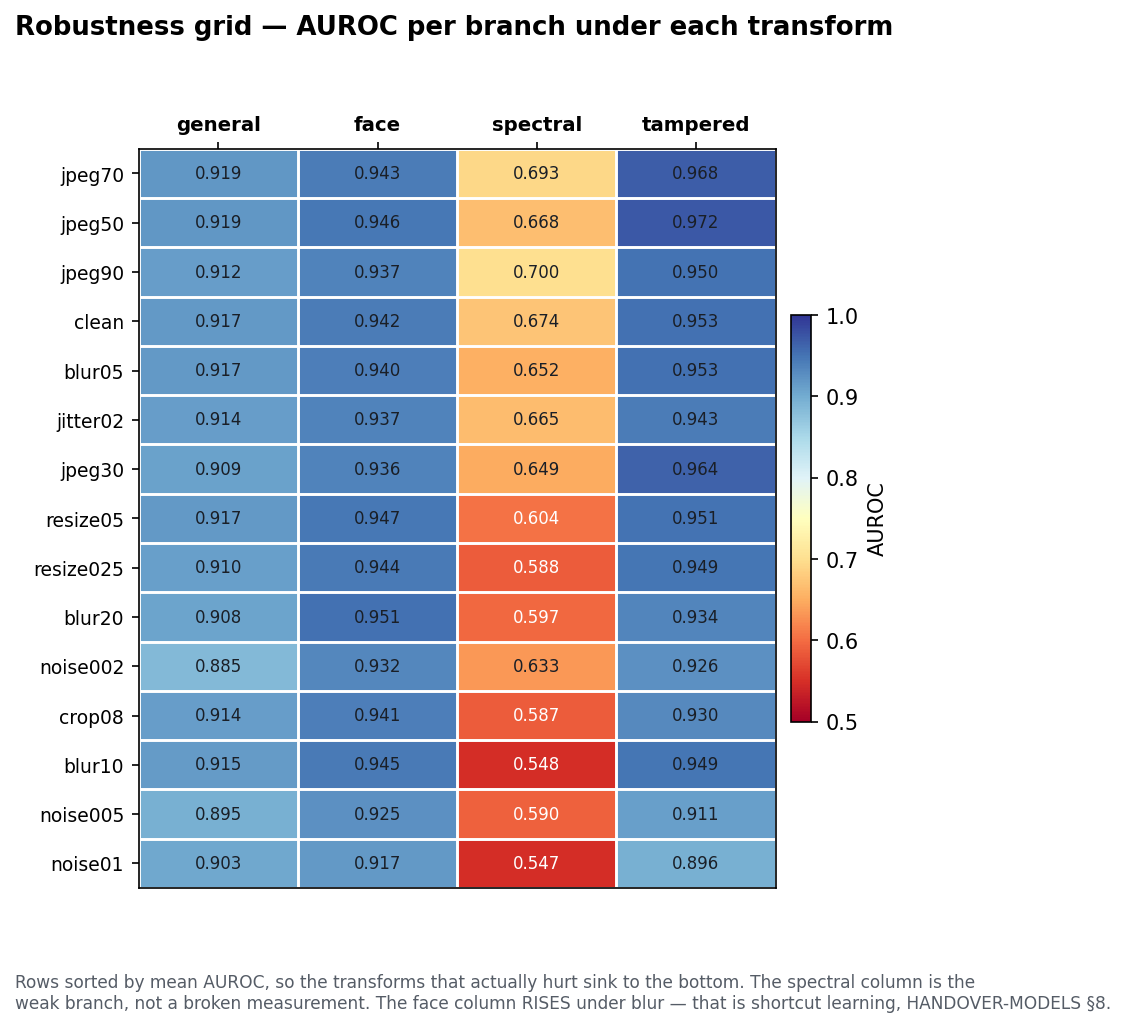
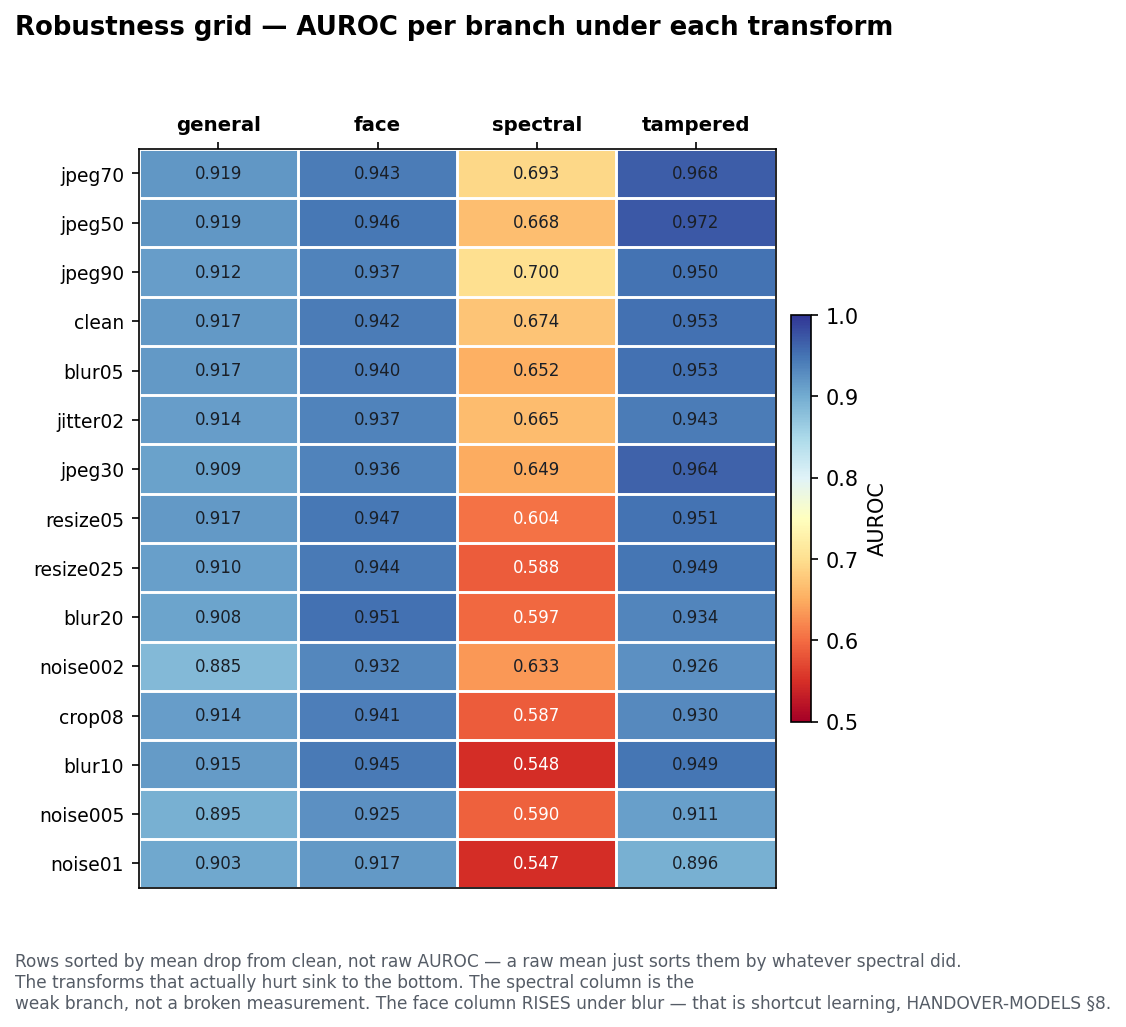
feat: benchmarks figure, per-source eval output, computed captions
eval_grid.py wrote every source to docs/robustness.md, so
`--source organizer_val` silently overwrote the So-Fake-OOD submission
deliverable. Output path is now per-source. It also embedded the
So-Fake-OOD figures under every source captioned "same numbers as a
heatmap" -- false for organizer_val, which now links benchmarks.png
instead. The blur caveat prints only where the face row actually rises
under blur (it falls on organizer_val: 0.9520 -> 0.8887).

make_figures.py promised in its docstring that nothing is pasted, then
pasted every caption number. separation.png claimed 34.6% of COCO was
flagged at the old 0.5 default; the measured value is 25.5%. All caption
figures are now computed at render time. robustness.png's caption
described a sort the code does not do.

New benchmarks.png: the organizer set against the headline, general probe
vs the shipped max, clean -> worst. Dumbbell rather than bars because the
axis has to be truncated to show a 0.03 gap and a truncated bar chart lies
about ratios. Verified equal to predict.score_embeddings() to 4dp --
eval_grid's combiner table maxes the PLATT-CALIBRATED branches and reads
0.9114/0.8771 on so_fake_ood, which is a different model.

Claude-Session: https://claude.ai/code/session_01RdWZMcCyUsfKW31mFesLPU

Changed region(s): [[0.0, 0.9348, 0.8703, 0.9659]]

diff --git a/scripts/make_figures.py b/scripts/make_figures.py
@@ -1,15 +1,16 @@
 """Regenerate docs/figures from cache. Everything here is computed, never drawn
 from a pasted number, so a figure cannot outlive the result it illustrates.
 
-    python scripts/make_figures.py            # all four
+    python scripts/make_figures.py            # all five
     python scripts/make_figures.py threshold  # just one
 
-Four figures, one argument each:
+Five figures, one argument each:
 
   threshold.png     0.5 was never chosen, and it is the wrong place to cut
   separation.png    why -- the real-image score mass sits on top of the old cut
   robustness.png    the 15-variant grid as a picture instead of a table
   generalisation.png  the tampered branch cannot recognise unfamiliar REAL photos
+  benchmarks.png    organizer set vs the headline, and what max() costs on it
 
 reliability.png is not built here -- it belongs to quorum/fusion.py, which owns
 calibration. Run `python -m quorum.fusion` for that one.
@@ -176,8 +177,8 @@ def fig_separation(D):
                  x=0.0, ha="left", y=1.0)
     fig.text(0.0, -0.03,
              "The real-image mass in both panels extends well past 0.5. Everything between the two "
-             "dashed lines was a false\naccusation at the old default — 34.6% of the COCO panel, "
-             "reduced to 8.6% at 0.766.",
+             f"dashed lines was a false\naccusation at the old default — {(pc >= OLD_THR).mean():.1%} of the COCO panel, "
+             f"reduced to {(pc >= NEW_THR).mean():.1%} at {NEW_THR}.",
              fontsize=8.2, color="#555C66", ha="left")
     save(fig, "separation.png")
 
@@ -213,7 +214,8 @@ def fig_robustness():
     fig.suptitle("Robustness grid — AUROC per branch under each transform",
                  fontsize=12.5, fontweight="bold", x=0.0, ha="left", y=1.02)
     fig.text(0.0, -0.015,
-             "Rows sorted by mean AUROC, so the transforms that actually hurt sink to the bottom. "
+             "Rows sorted by mean drop from clean, not raw AUROC — a raw mean just sorts them by "
+             "whatever spectral did.\nThe transforms that actually hurt sink to the bottom. "
              "The spectral column is the\nweak branch, not a broken measurement. The face column "
              "RISES under blur — that is shortcut learning, HANDOVER-MODELS §8.",
              fontsize=8.2, color="#555C66", ha="left")
@@ -252,11 +254,14 @@ def fig_generalisation(D):
     axes[1].set_ylabel("P(AI) on real photographs"); axes[1].set_ylim(0, 1)
     style(axes[1], "Score distribution on the same three sets")
 
-    fig.suptitle("On unfamiliar photography the tampered branch flags 10x more real images",
+    ratio = ((D["reals"]["coco"]["tampered"] >= .5).mean()
+             / max((D["reals"]["coco"]["general"] >= .5).mean(), 1e-9))
+    fig.suptitle(f"On unfamiliar photography the tampered branch flags {ratio:.0f}x more real images",
                  fontsize=12.5, fontweight="bold", x=0.0, ha="left", y=1.02)
     fig.text(0.0, -0.22,
              "Both probes train only on SID_Set reals. On COCO — ordinary photography neither has "
-             "seen — general holds at 2.4% while\ntampered fires on 24.2%. The middle pair is not "
+             f"seen — general holds at {(D['reals']['coco']['general'] >= .5).mean():.1%} while\n"
+             f"tampered fires on {(D['reals']['coco']['tampered'] >= .5).mean():.1%}. The middle pair is not "
              "the same story: So-Fake-OOD's reals are web-sourced and already processed,\nso both "
              "probes struggle and general struggles most. That set is harder, not more unseen.\n"
              "Because the shipped scorer is max(), it inherits whichever branch is worse on a "
@@ -266,15 +271,79 @@ def fig_generalisation(D):
     save(fig, "generalisation.png")
 
 
+def fig_benchmarks():
+    """Both eval sets, general alone vs the shipped max, clean and worst.
+
+    A dumbbell rather than bars on purpose: the interesting gaps are ~0.03 wide,
+    so the axis has to be truncated to show them, and a truncated bar chart lies
+    about ratios. Dots carry no area, so the same truncation is honest.
+    """
+    import pandas as pd
+    from sklearn.metrics import roc_auc_score
+
+    rows = {}
+    for src, label in (("organizer_val", "Organizer set\nDALL\u00b7E 3 + COCO val2017"),
+                       ("so_fake_ood", "So-Fake-OOD\nunseen generator families")):
+        X, R = load(src)
+        if "calib_ood" in set(R.split):                     # never score the carve
+            m = (R.split != "calib_ood").values
+            X, R = X[m], R[m].reset_index(drop=True)
+        g, t = probe("general", X), probe("tampered", X)
+        for scorer, v in (("general alone", g),
+                          ("max(general, tampered)  \u2014 shipped", np.maximum(g, t))):
+            a = pd.Series({var: roc_auc_score(R.label[k], v[k])
+                           for var, k in ((var, (R.variant == var).values)
+                                          for var in R.variant.unique())
+                           if R.label[k].nunique() == 2})
+            rows[(label, scorer)] = (a["clean"], a.min(), a.idxmin())
+
+    fig, ax = plt.subplots(figsize=(9.6, 4.2))
+    ticks, y = [], 0
+    for (label, scorer), (clean, worst, where) in rows.items():
+        c = BLUE if scorer.startswith("general") else RED
+        ax.plot([worst, clean], [y, y], lw=2.4, c=c, alpha=.45, zorder=1,
+                solid_capstyle="round")
+        ax.scatter([worst], [y], s=64, c="white", edgecolors=c, lw=1.8, zorder=3)
+        ax.scatter([clean], [y], s=64, c=c, zorder=3)
+        ax.text(clean + .004, y, f"{clean:.4f}", va="center", fontsize=8.4,
+                fontweight="bold", color=c)
+        ax.text(worst - .004, y, f"{worst:.4f}  ({where})", va="center", ha="right",
+                fontsize=8.0, color=c)
+        ticks.append((y, f"{label}\n{scorer}"))
+        y -= 1
+
+    ax.set_yticks([t[0] for t in ticks], [t[1] for t in ticks], fontsize=8.2)
+    lo = min(w for _, w, _ in rows.values())
+    ax.set_xlim(lo - 0.055, 1.025)      # room for the left-hand labels
+    ax.set_ylim(y + .5, .7)
+    ax.set_xlabel("AUROC   \u2014   hollow dot = worst variant, solid = clean")
+    # Verified equal to predict.score_embeddings() to 4dp. eval_grid.py's
+    # combiner table maxes the PLATT-CALIBRATED branches instead and reads
+    # 0.9114/0.8771 on so_fake_ood -- a different model, not this one.
+    style(ax, "The organizer benchmark against the headline")
+    fig.text(0.0, -0.20,
+             "The organizer set is the only externally-comparable number we get, and it is the "
+             "easiest of the two: DALL\u00b7E 3 is\na softer target than So-Fake-OOD's generator "
+             "families, so 0.9170 stays the headline claim.\n"
+             "On the organizer set the shipped max() is WORSE than the general probe alone. It "
+             "contains no locally-edited\nimages, so the tampered branch can only add false "
+             "positives there. max() still wins on the pooled task\n(FULL avg 0.9113 vs 0.8849), "
+             "which is why it ships \u2014 but the trade is real and belongs in the write-up.",
+             fontsize=8.2, color="#555C66", ha="left")
+    save(fig, "benchmarks.png")
+
+
 FIGS = {"threshold": fig_threshold, "separation": fig_separation,
-        "robustness": fig_robustness, "generalisation": fig_generalisation}
+        "robustness": fig_robustness, "generalisation": fig_generalisation,
+        "benchmarks": fig_benchmarks}
 
 if __name__ == "__main__":
     want = [a for a in sys.argv[1:] if not a.startswith("-")] or list(FIGS)
     bad = [w for w in want if w not in FIGS]
     if bad:
         raise SystemExit(f"unknown figure(s) {bad}; choose from {list(FIGS)}")
-    D = populations() if any(w != "robustness" for w in want) else None
+    NO_DATA = {"robustness", "benchmarks"}
+    D = populations() if any(w not in NO_DATA for w in want) else None
     for w in want:
         print(f"{w}:")
-        FIGS[w]() if w == "robustness" else FIGS[w](D)
+        FIGS[w]() if w in NO_DATA else FIGS[w](D)

diff --git a/scripts/eval_grid.py b/scripts/eval_grid.py
@@ -169,15 +169,25 @@ def main(source, do_comb):
         # contradicted the table three lines above it.
         BLUR_CAVEAT if blur_rises(df) else "",
         "\n## Full grid\n", fence, df.to_string(float_format="%.4f"), fence,
-        "\n![Robustness grid](figures/robustness.png)\n\n_Same numbers as a "
-        "heatmap, rows sorted by mean drop from clean. Regenerate with "
-        "`python scripts/make_figures.py robustness`._\n",
-        "\n## Where the decision is made\n\nAUROC above is threshold-free and "
-        "says nothing about whether the shipped cut works. It did not: 0.5 was "
-        "the sigmoid default and flagged a quarter of COCO photographs as AI. "
-        "`predict.py` now cuts at an operating point picked on `calib_ood`.\n\n"
-        "![Threshold sweep](figures/threshold.png)\n\n"
-        "![Score separation](figures/separation.png)\n",
+        # Every figure under docs/figures except benchmarks.png is built from
+        # so_fake_ood. Embedding them under another source captioned "same
+        # numbers as a heatmap" was simply false -- organizer_val showed the
+        # So-Fake-OOD grid and claimed it as its own.
+        ("\n![Robustness grid](figures/robustness.png)\n\n_Same numbers as a "
+         "heatmap, rows sorted by mean drop from clean. Regenerate with "
+         "`python scripts/make_figures.py robustness`._\n"
+         "\n## Where the decision is made\n\nAUROC above is threshold-free and "
+         "says nothing about whether the shipped cut works. It did not: 0.5 was "
+         "the sigmoid default and flagged a quarter of COCO photographs as AI. "
+         "`predict.py` now cuts at an operating point picked on `calib_ood`.\n\n"
+         "![Threshold sweep](figures/threshold.png)\n\n"
+         "![Score separation](figures/separation.png)\n"
+         if source == "so_fake_ood" else
+         "\n![Benchmarks](figures/benchmarks.png)\n\n_This source against the "
+         "So-Fake-OOD headline, general probe vs the shipped `max`. The other "
+         "figures in `docs/figures` are built from So-Fake-OOD and are not "
+         "shown here. Regenerate with `python scripts/make_figures.py "
+         "benchmarks`._\n"),
     ]
     if comb is not None:
         parts += [

diff --git a/docs/robustness-organizer_val.md b/docs/robustness-organizer_val.md
@@ -35,17 +35,9 @@ resize025   0.9854 0.9109    0.5199    0.9002
 resize05    0.9844 0.9372    0.6170    0.8740
 ```
 
-![Robustness grid](figures/robustness.png)
+![Benchmarks](figures/benchmarks.png)
 
-_Same numbers as a heatmap, rows sorted by mean drop from clean. Regenerate with `python scripts/make_figures.py robustness`._
-
-## Where the decision is made
-
-AUROC above is threshold-free and says nothing about whether the shipped cut works. It did not: 0.5 was the sigmoid default and flagged a quarter of COCO photographs as AI. `predict.py` now cuts at an operating point picked on `calib_ood`.
-
-![Threshold sweep](figures/threshold.png)
-
-![Score separation](figures/separation.png)
+_This source against the So-Fake-OOD headline, general probe vs the shipped `max`. The other figures in `docs/figures` are built from So-Fake-OOD and are not shown here. Regenerate with `python scripts/make_figures.py benchmarks`._
 
 ## Combiners, on the full task
 
